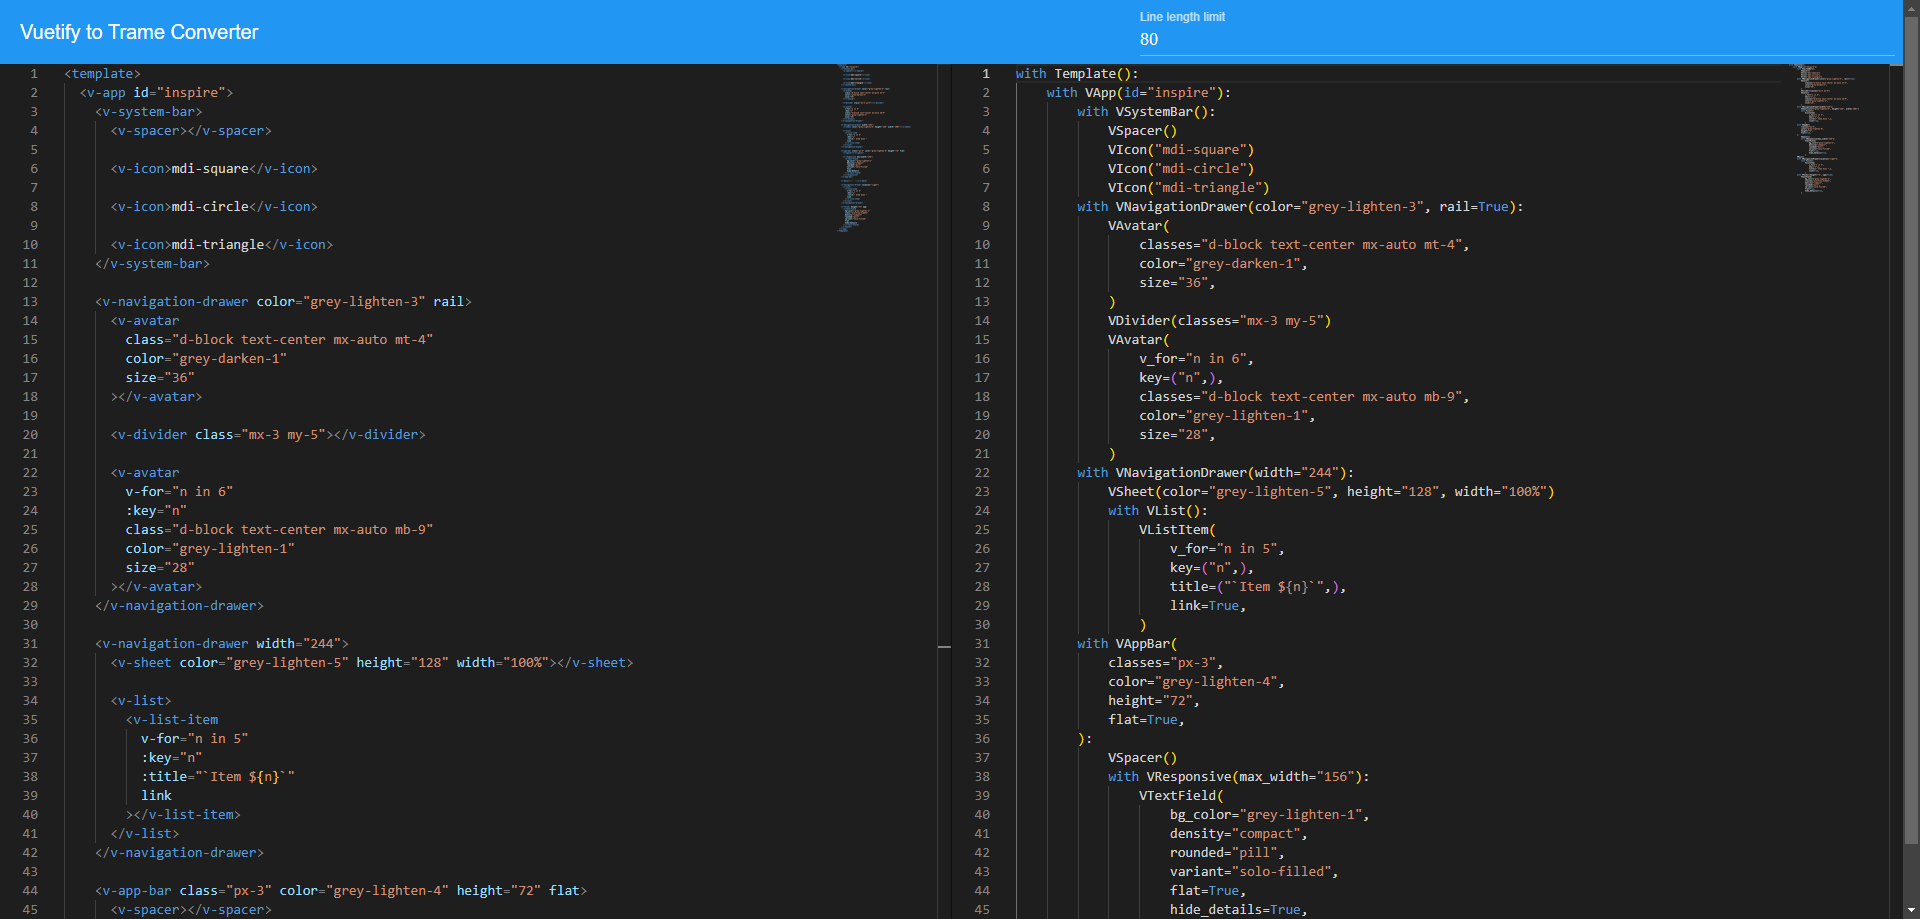
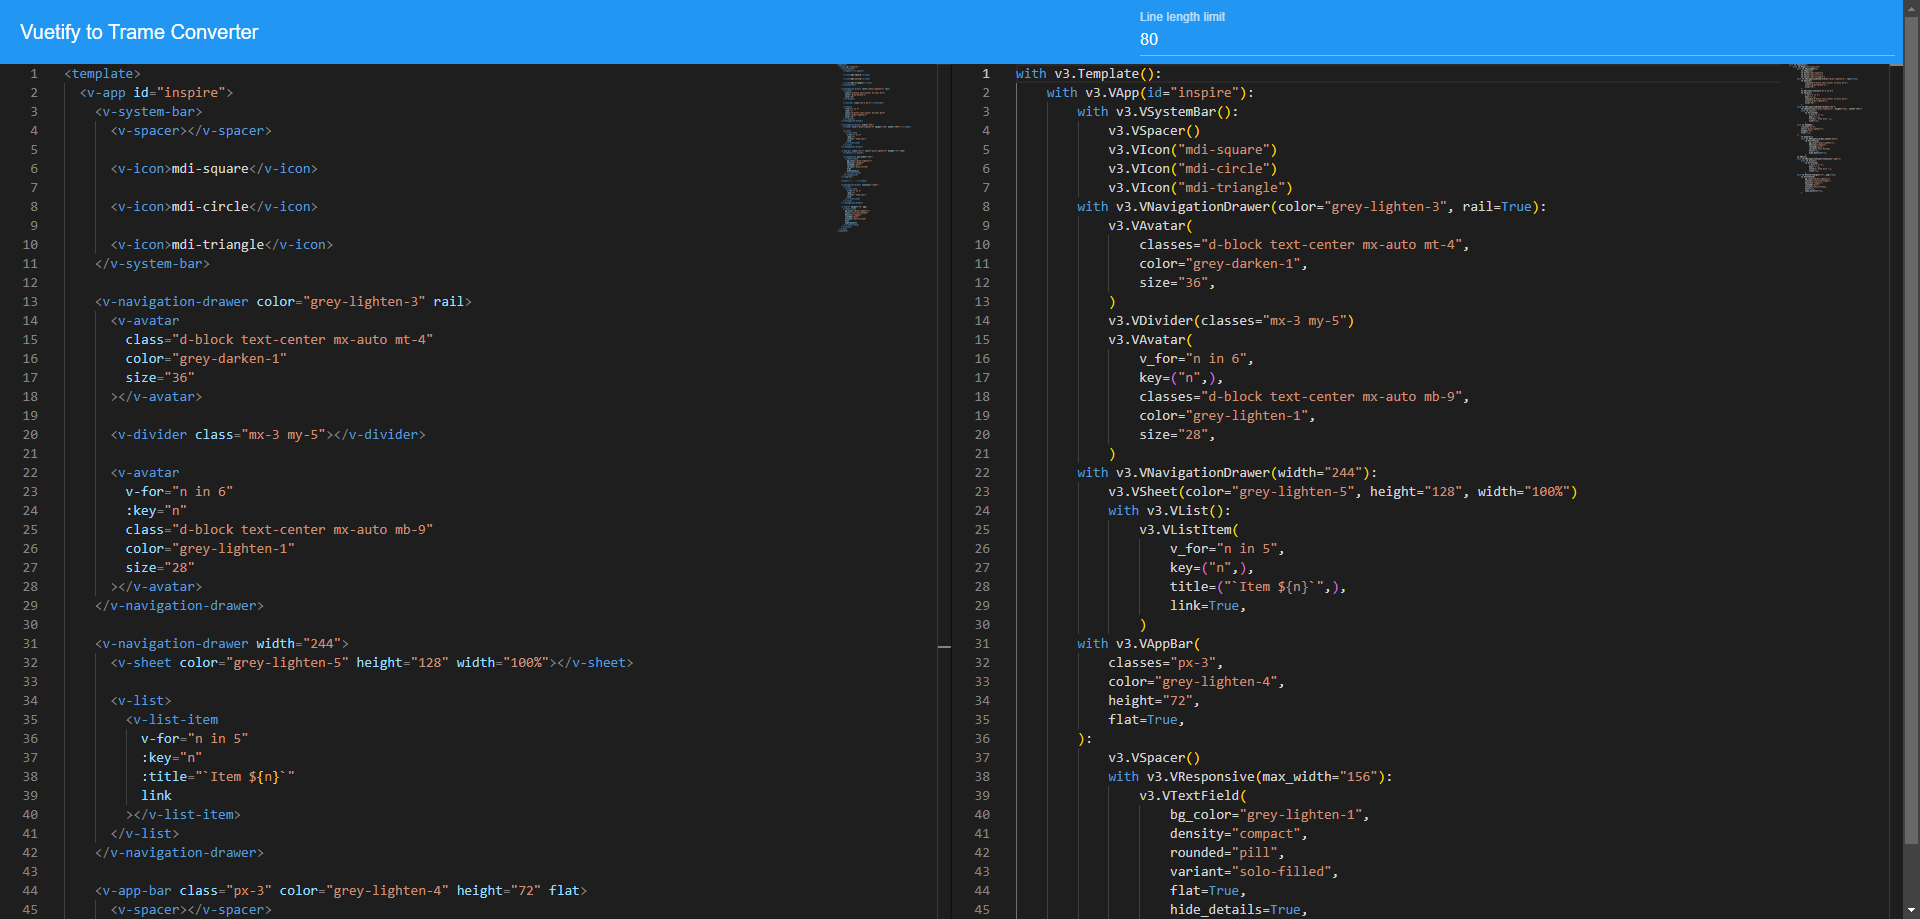
fix: prepend `v3.`

diff --git a/vuetify_to_trame.py b/vuetify_to_trame.py
@@ -129,10 +129,12 @@ class TrameCodeBuilder:
 
             if has_children:
                 self.trame_code.append(
-                    f"{indentation}with {trame_tag}({attribute_string}):"
+                    f"{indentation}with v3.{trame_tag}({attribute_string}):"
                 )
             else:
-                self.trame_code.append(f"{indentation}{trame_tag}({attribute_string})")
+                self.trame_code.append(
+                    f"{indentation}v3.{trame_tag}({attribute_string})"
+                )
 
             for child in element.children:
                 if isinstance(child, Tag):

diff --git a/README.md b/README.md
@@ -1,3 +1,5 @@
-# WIP
+# Vuetify to Trame Converter
+
+This tool allows you to convert Vuetify code into Python code to be used with the [Trame](https://github.com/Kitware/trame) library.
 
 ![demo](docs/demo.png)
